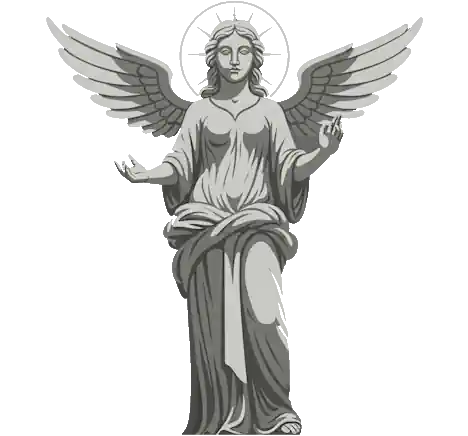
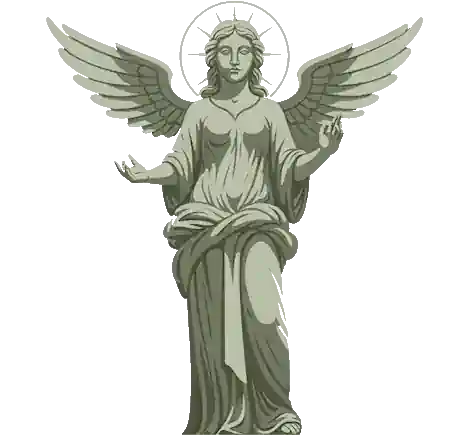
x

diff --git a/src/styles.css b/src/styles.css
@@ -11,7 +11,7 @@
   --gemini: #5eff0030;
   --cancer: #559fbd40;
   --leo: #ffa60040;
-  --virgo: #8f977940;
+  --virgo: #6c8d1840;
   --libra: #ffc0f541;
   --scorpio: #80000040;
   --sagittarius: #4169e140;
